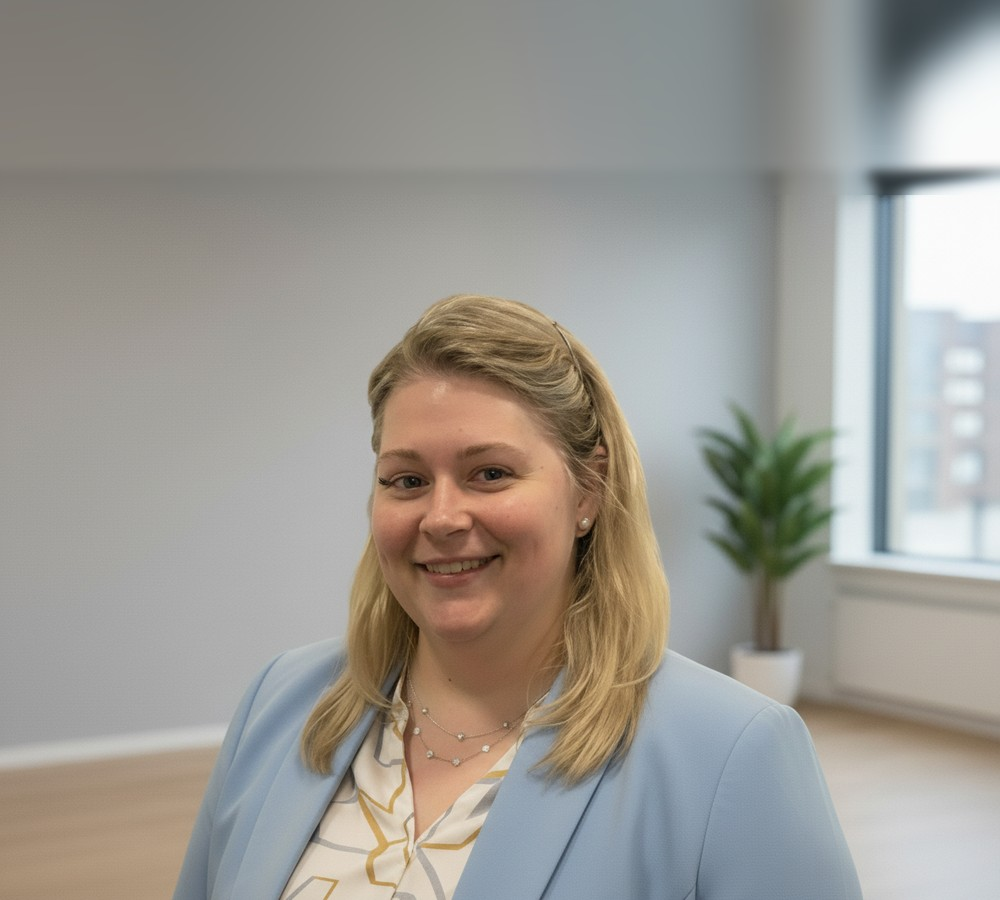
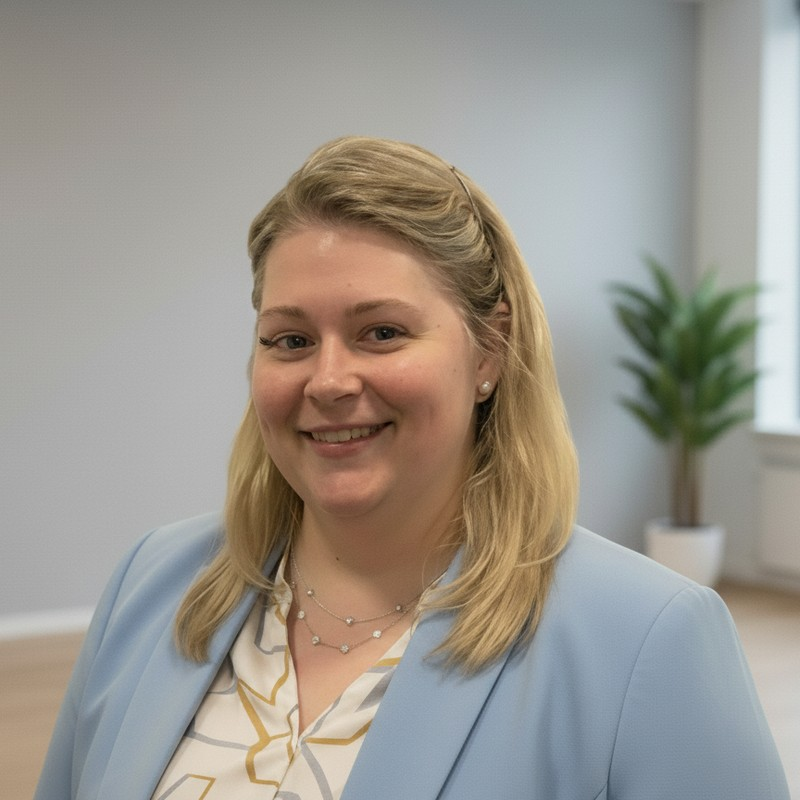
Portrait: smaller frame, face centred with background on both sides
Claude-Session: https://claude.ai/code/session_01QdJHVasJVeAtSUd5F16CVQ

diff --git a/index.html b/index.html
@@ -11,7 +11,7 @@
 <link rel="alternate" hreflang="x-default" href="https://nishizawagsz.github.io/"/>
 <style>.lang-pending #site{visibility:hidden}</style>
 <script type="application/ld+json">
-{"@context":"https://schema.org","@type":"Person","name":"Gabriella Nishizawa","honorificPrefix":"Dr.","alternateName":["Dr. Gabriella Nishizawa","Nishizawa Gabriella"],"url":"https://nishizawagsz.github.io/","image":"https://nishizawagsz.github.io/assets/gabriella-portrait.jpg?v=5","jobTitle":["School librarian","Teacher","Examiner","Developer"],"description":"School librarian and teacher in Yokohama who builds reading, research and ethical AI skills, from kindergarten to the IB Diploma. Cambridge and IB examiner, computer science educator and iOS developer.","knowsAbout":["School libraries","Information literacy","Academic integrity","Responsible AI use in education","Reading promotion","Extended Essay supervision","Cognitive linguistics","Computer science education"],"knowsLanguage":["en","hu","de","ru"],"address":{"@type":"PostalAddress","addressLocality":"Yokohama","addressCountry":"JP"},"email":"mailto:nishizawagsz@gmail.com","sameAs":["https://linkedin.com/in/gabriella-nishizawa","https://nitaii.eu/","https://github.com/nishizawagsz"]}
+{"@context":"https://schema.org","@type":"Person","name":"Gabriella Nishizawa","honorificPrefix":"Dr.","alternateName":["Dr. Gabriella Nishizawa","Nishizawa Gabriella"],"url":"https://nishizawagsz.github.io/","image":"https://nishizawagsz.github.io/assets/gabriella-portrait.jpg?v=6","jobTitle":["School librarian","Teacher","Examiner","Developer"],"description":"School librarian and teacher in Yokohama who builds reading, research and ethical AI skills, from kindergarten to the IB Diploma. Cambridge and IB examiner, computer science educator and iOS developer.","knowsAbout":["School libraries","Information literacy","Academic integrity","Responsible AI use in education","Reading promotion","Extended Essay supervision","Cognitive linguistics","Computer science education"],"knowsLanguage":["en","hu","de","ru"],"address":{"@type":"PostalAddress","addressLocality":"Yokohama","addressCountry":"JP"},"email":"mailto:nishizawagsz@gmail.com","sameAs":["https://linkedin.com/in/gabriella-nishizawa","https://nitaii.eu/","https://github.com/nishizawagsz"]}
 </script>
 <meta property="og:type" content="website"/>
 <meta property="og:title" content="Dr. Gabriella Nishizawa · Libraries, Information and Learning"/>
@@ -444,7 +444,7 @@
         .container { padding: 0 20px; }
     }
 </style>
-<link href="https://fonts.googleapis.com/css2?family=Cormorant+Garamond:ital,wght@0,500;0,600;0,700;1,600;1,700&amp;family=DM+Mono:wght@400;500&amp;family=DM+Sans:opsz,wght@9..40,400;9..40,500;9..40,600;9..40,700&amp;display=swap" rel="stylesheet"/><link href="art-direction.css?v=8" rel="stylesheet"/>
+<link href="https://fonts.googleapis.com/css2?family=Cormorant+Garamond:ital,wght@0,500;0,600;0,700;1,600;1,700&amp;family=DM+Mono:wght@400;500&amp;family=DM+Sans:opsz,wght@9..40,400;9..40,500;9..40,600;9..40,700&amp;display=swap" rel="stylesheet"/><link href="art-direction.css?v=9" rel="stylesheet"/>
 <script src="site.js?v=6"></script>
 <script>
 (function(){
@@ -485,7 +485,7 @@
 <header class="hero" id="main-content" tabindex="-1"><div aria-hidden="true" class="hero-colourfield"><span class="field-shape field-teal"></span><span class="field-shape field-ochre"></span><span class="field-shape field-coral"></span><span class="field-shape field-violet"></span></div>
 <div class="hero-inner">
 <div class="hero-photo">
-<div class="hero-photo-blob"><img alt="Dr. Gabriella Nishizawa" decoding="async" fetchpriority="high" loading="eager" src="assets/gabriella-portrait.jpg?v=5"/></div>
+<div class="hero-photo-blob"><img alt="Dr. Gabriella Nishizawa" decoding="async" fetchpriority="high" loading="eager" src="assets/gabriella-portrait.jpg?v=6"/></div>
 <button aria-controls="primary-menu" aria-expanded="false" aria-label="Get to know Dr. Gabriella Nishizawa: open site navigation" class="know-me-trigger" type="button"><span class="know-me-kicker">Start here</span><span class="know-me-label">Get to know me</span><span aria-hidden="true" class="know-me-arrow">↗</span></button></div>
 <div>
 <h1 class="hero-name">Dr. Gabriella Nishizawa</h1>
@@ -1404,7 +1404,7 @@
 <header class="hero" id="main-content" tabindex="-1"><div aria-hidden="true" class="hero-colourfield"><span class="field-shape field-teal"></span><span class="field-shape field-ochre"></span><span class="field-shape field-coral"></span><span class="field-shape field-violet"></span></div>
 <div class="hero-inner">
 <div class="hero-photo">
-<div class="hero-photo-blob"><img alt="Dr. Gabriella Nishizawa" decoding="async" fetchpriority="high" loading="eager" src="assets/gabriella-portrait.jpg?v=5"/></div>
+<div class="hero-photo-blob"><img alt="Dr. Gabriella Nishizawa" decoding="async" fetchpriority="high" loading="eager" src="assets/gabriella-portrait.jpg?v=6"/></div>
 <button aria-controls="primary-menu" aria-expanded="false" aria-label="Ismerd meg Dr. Nishizawa Gabriellát: navigáció megnyitása" class="know-me-trigger" type="button"><span class="know-me-kicker">Kezdd itt</span><span class="know-me-label">Ismerj meg</span><span aria-hidden="true" class="know-me-arrow">↗</span></button></div>
 <div>
 <h1 class="hero-name">Dr. Gabriella Nishizawa</h1>

diff --git a/art-direction.css b/art-direction.css
@@ -1716,3 +1716,7 @@ nav.topnav > .topnav-inner > a.nav-brand:first-child {
 .strand-body p:has(+ .strand-list) { margin-bottom: 0; }
 .strand-body p:not(.strand-sub) { color: var(--muted); font-size: .92rem; line-height: 1.65; text-align: left !important; }
 .strand-body p:not(.strand-sub) + p { margin-top: 10px; }
+/* Revision 26: smaller, less tall portrait frame so the face sits centred with room around it */
+.hero-photo { width: 292px; height: 330px; }
+@media (max-width: 1100px) { .hero-photo { width: 244px; height: 276px; } }
+@media (max-width: 700px) { .hero-photo { width: 204px; height: 230px; } }
